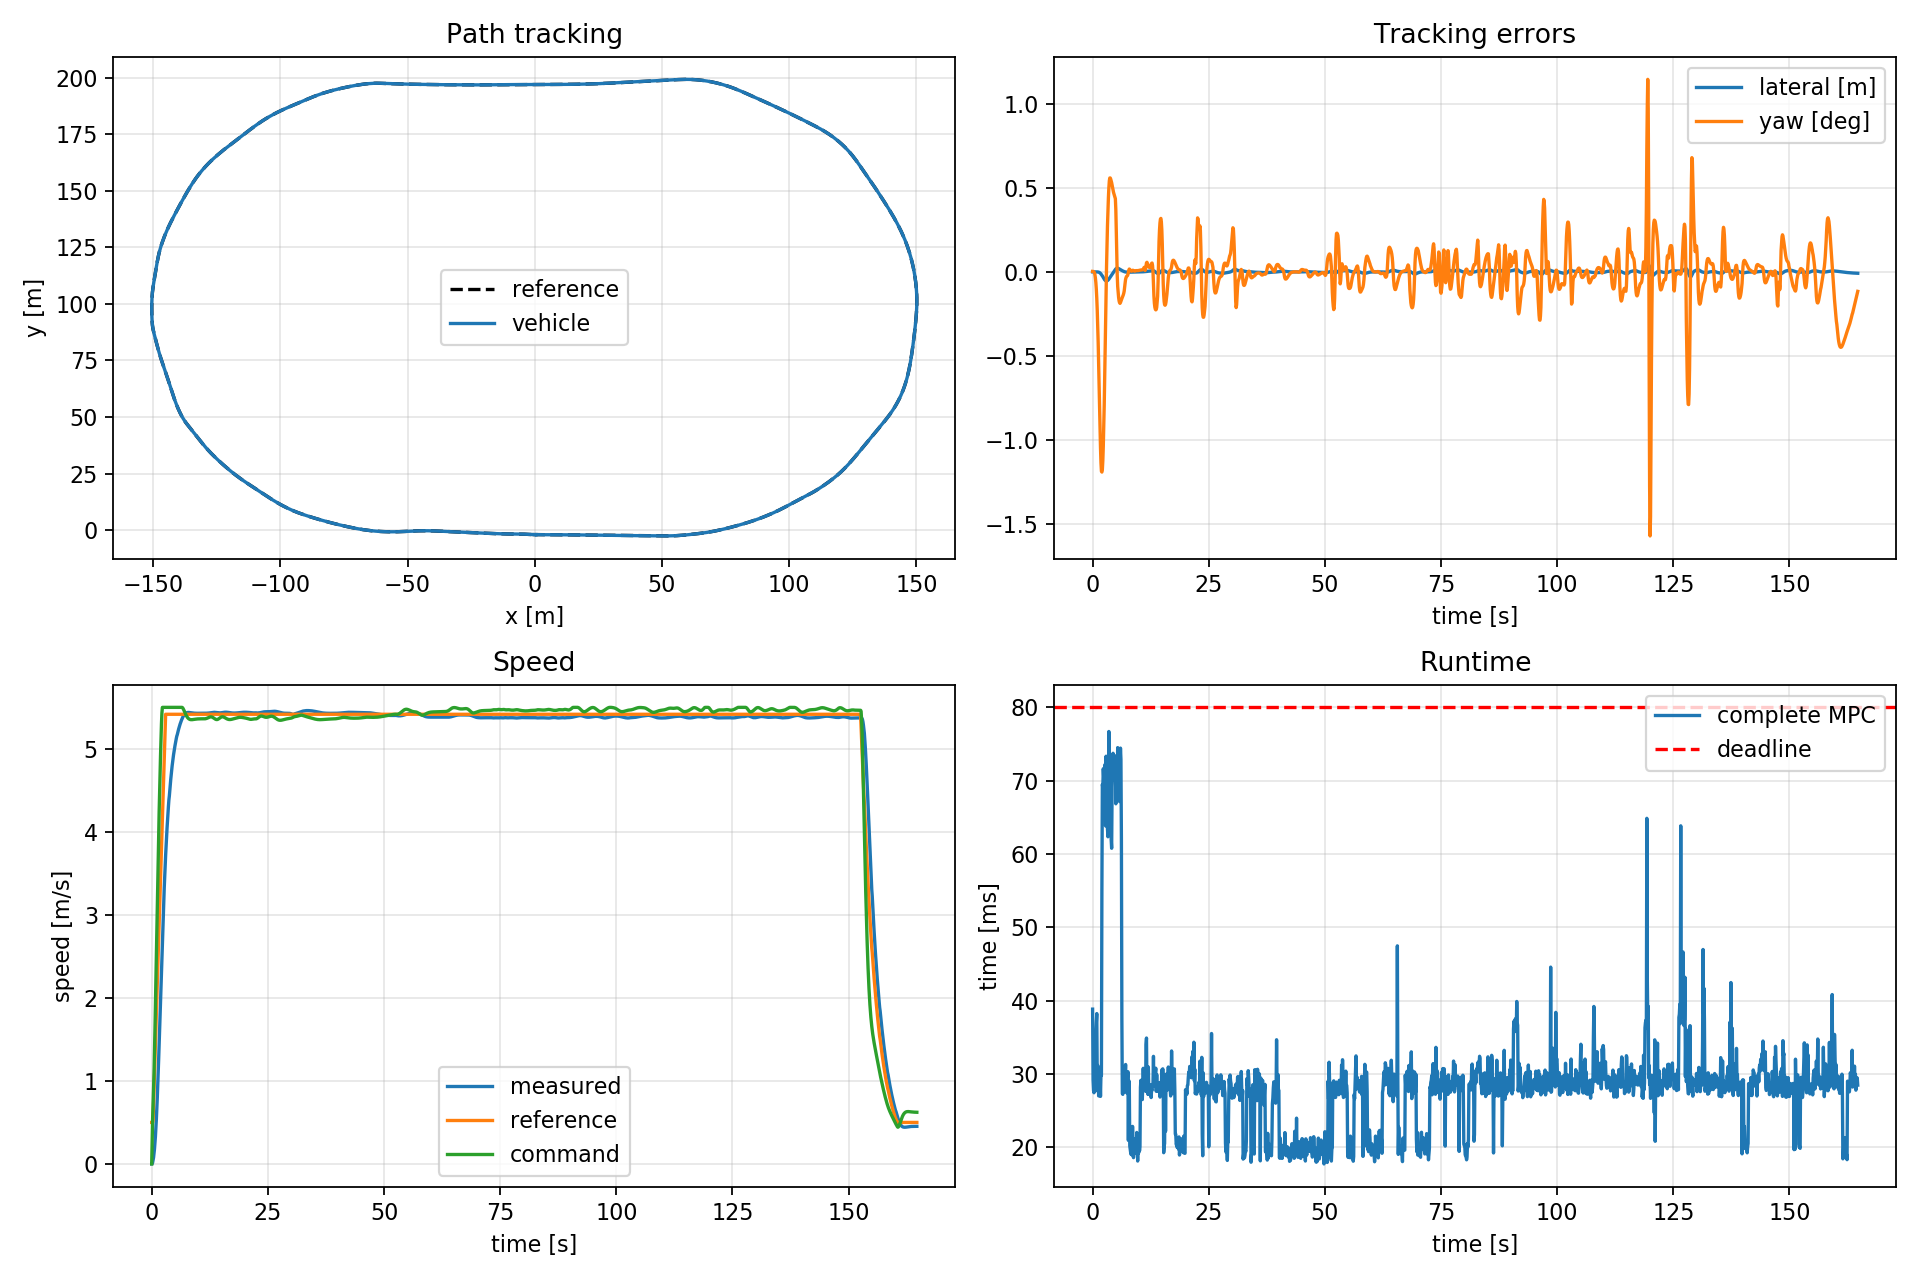
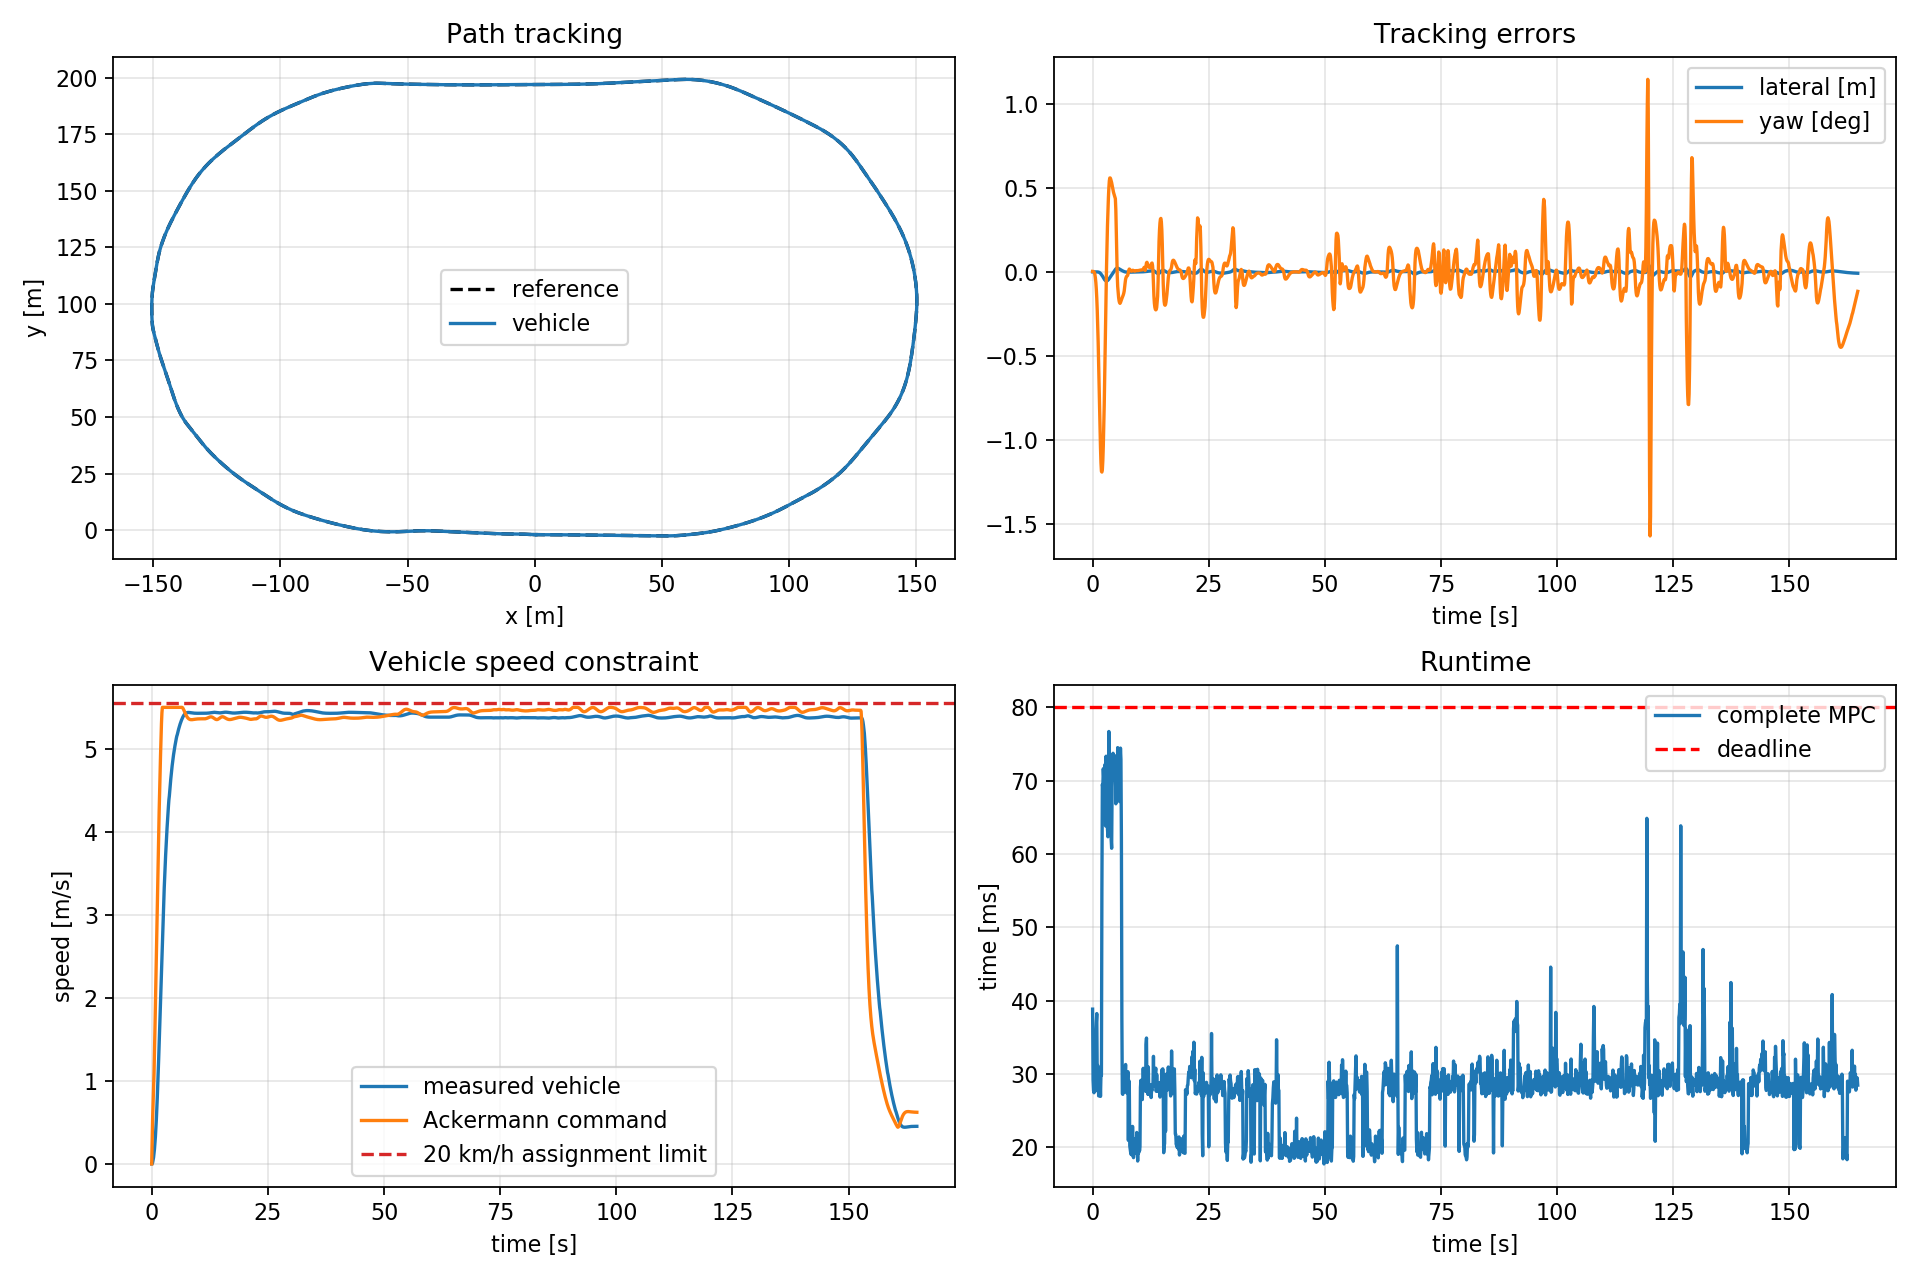
Audit assignment deliverables

Changed region(s): [[0.0625, 0.5, 0.4688, 0.7188], [0.1875, 0.8438, 0.375, 0.9062], [0.4375, 0.6875, 0.4688, 0.875]]

diff --git a/catkin_ws/src/gem_control/scripts/analyze_full_mpc_run.py b/catkin_ws/src/gem_control/scripts/analyze_full_mpc_run.py
@@ -56,6 +56,9 @@ def analyze(run_directory: Path) -> dict[str, object]:
     yaw_error = columns["yaw_error_rad"]
     total_compute = columns["mpc_total_compute_s"]
     publish_interval = np.diff(columns["publish_time_s"])
+    measured_speed = columns["speed_mps"]
+    speed_command = columns["published_speed_command_mps"]
+    assignment_speed_limit_mps = 20.0 / 3.6
     original_waypoints = load_waypoint_csv(preprocessing.source_csv)[
         preprocessing.first_lap_raw_index
         : preprocessing.last_lap_raw_index + 1
@@ -91,6 +94,17 @@ def analyze(run_directory: Path) -> dict[str, object]:
         "yaw_error": {
             "rms_rad": rms(yaw_error),
             "maximum_absolute_rad": float(np.max(np.abs(yaw_error))),
+        },
+        "speed": {
+            "assignment_limit_kmh": 20.0,
+            "maximum_measured_mps": float(np.max(measured_speed)),
+            "maximum_measured_kmh": float(3.6 * np.max(measured_speed)),
+            "maximum_command_mps": float(np.max(speed_command)),
+            "maximum_command_kmh": float(3.6 * np.max(speed_command)),
+            "assignment_limit_respected": bool(
+                np.max(measured_speed) <= assignment_speed_limit_mps
+                and np.max(speed_command) <= assignment_speed_limit_mps
+            ),
         },
         "timing": {
             "mean_total_compute_ms": float(1000.0 * np.mean(total_compute)),
@@ -139,20 +153,17 @@ def analyze(run_directory: Path) -> dict[str, object]:
     error_axis.legend()
     error_axis.grid(True, alpha=0.3)
 
-    speed_axis.plot(time_s, columns["speed_mps"], label="measured")
-    speed_axis.plot(
-        time_s,
-        columns["reference_speed_mps"],
-        label="reference",
-    )
-    speed_axis.plot(
-        time_s,
-        columns["published_speed_command_mps"],
-        label="command",
+    speed_axis.plot(time_s, measured_speed, label="measured vehicle")
+    speed_axis.plot(time_s, speed_command, label="Ackermann command")
+    speed_axis.axhline(
+        assignment_speed_limit_mps,
+        color="tab:red",
+        linestyle="--",
+        label="20 km/h assignment limit",
     )
     speed_axis.set_xlabel("time [s]")
     speed_axis.set_ylabel("speed [m/s]")
-    speed_axis.set_title("Speed")
+    speed_axis.set_title("Vehicle speed constraint")
     speed_axis.legend()
     speed_axis.grid(True, alpha=0.3)
 

diff --git a/README.md b/README.md
@@ -3,6 +3,25 @@
 System identification and model predictive path tracking for the
 POLARIS GEM e2 simulator.
 
+## Assignment Coverage
+
+| Assignment requirement | Implementation and evidence |
+| --- | --- |
+| Simulator data for system identification | Reproducible commissioned train, validation, and held-out test profiles in `gem_sysid` |
+| Ackermann command and current state to future state model | Separate learned speed and yaw-rate residual MLPs plus midpoint Euler pose propagation |
+| Model validation inputs, outputs, and RMSE | Selected-model metric table and `selected_model_test_evidence.png` below |
+| MPC using the learned dynamics model | Direct-command nonlinear MPC in `gem_control` |
+| CSV path execution | Simulator `package://gem_pure_pursuit_sim/waypoints/wps.csv`, converted to a closed arc-length path |
+| Maximum speed `20 km/h` | Final lap: `19.660 km/h` maximum measured, `19.800 km/h` maximum command |
+| Cross-track error within `1 m` | Final lap: `0.0543 m` maximum absolute smoothed-path error |
+| Dockerfile and build/run instructions | Included below |
+| Saved system-identification and cross-track images | Included and embedded below |
+| Demonstration video | Not yet recorded; required recording contents are listed below |
+
+The cascaded-P controller and initial-error recovery test are additional
+validation work. They are documented after the required learned-model MPC but
+are not assignment requirements.
+
 ## Development Environment
 
 The project is developed on Windows using Docker Desktop with the WSL2
@@ -10,6 +29,20 @@ backend. ROS Noetic, Gazebo 11, and the project dependencies will run
 inside an Ubuntu 20.04 Docker container.
 
 ## Run the Environment
+
+Clone the repository together with its simulator submodule:
+
+```bash
+git clone --recurse-submodules \
+  https://github.com/plenarbence/gem-mpc-path-tracking.git
+cd gem-mpc-path-tracking
+```
+
+For an existing clone, initialize the simulator with:
+
+```bash
+git submodule update --init --recursive
+```
 
 Build the image:
 
@@ -172,12 +205,13 @@ Build and validate the closed, arc-length-parameterized path:
 rosrun gem_control validate_reference_path.py
 ```
 
-The `gem_control` package resolves the simulator waypoint CSV through ROS,
-removes the stationary prefix and duplicates, extracts one lap, closes its
-endpoint, and fits the validated periodic smoothing spline. It provides both a
-numerical Python path for vehicle projection and a differentiable CasADi path
-for MPC. Validation evidence is written to `results/reference_path/`; the
-method and interface are documented in
+The `gem_control` package resolves
+`package://gem_pure_pursuit_sim/waypoints/wps.csv` through ROS, removes the
+stationary prefix and duplicates, extracts one lap, closes its endpoint, and
+fits the validated periodic smoothing spline. It provides both a numerical
+Python path for vehicle projection and a differentiable CasADi path for MPC.
+Validation evidence is written to `results/reference_path/`; the method and
+interface are documented in
 [`docs/reference_path.md`](docs/reference_path.md).
 
 ## Full Learned MPC
@@ -223,8 +257,10 @@ The final horizon-12 lap used a `19.5 km/h` requested path progression and
 travelled `831.68 m` with `0.00776 m` lateral RMS error and `0.05426 m`
 maximum error. All 1,648 solves were accepted; complete MPC computation was
 `36.63 ms` p95 and `76.71 ms` maximum with no `80 ms` deadline miss. Horizon
-10 was therefore not required. Implementation details, limits, warm starts,
-deadline handling, and evidence are documented in
+10 was therefore not required. Maximum measured vehicle speed was
+`19.660 km/h`, and maximum Ackermann speed command was `19.800 km/h`, so the
+assignment's `20 km/h` limit was respected. Implementation details, limits,
+warm starts, deadline handling, and evidence are documented in
 [`docs/full_learned_mpc.md`](docs/full_learned_mpc.md).
 
 The third panel reports unsigned vehicle distance to the nearest original CSV
@@ -255,7 +291,7 @@ Implementation, timing, and validation details are in
 
 ![Cascaded-P validation](results/cascaded_p/simulator_19p5_kmh/validation.png)
 
-## Initial-Error Stress Test
+## Extra Validation: Initial-Error Stress Test
 
 The full learned MPC and cascaded P were also run from the same `0.5 m`
 lateral and `+40 deg` yaw error at a `10 km/h` reference path progression for
@@ -273,6 +309,17 @@ Commands, exact metrics, and interpretation are documented in
 [`docs/initial_error_recovery.md`](docs/initial_error_recovery.md).
 
 ![Initial-error comparison](results/initial_error_0p5m_40deg_10kmh/comparison.png)
+
+## Demonstration Video
+
+The demonstration video is the only assignment deliverable not yet completed.
+The final recording must:
+
+1. Start `full_mpc_sim.launch` from a terminal.
+2. Show the vehicle completing the path in Gazebo.
+3. Show RViz displaying the CSV path and vehicle progress.
+4. End on the selected-model input/output RMSE image.
+5. End on the final cross-track-error image.
 
 ## Status
 

diff --git a/docs/full_learned_mpc.md b/docs/full_learned_mpc.md
@@ -170,5 +170,7 @@ and then holds zero until stationary. The recorded final lap covered
 `28.49 ms` mean, `36.63 ms` p95, and `76.71 ms` maximum, with zero `80 ms`
 deadline misses. All solves were accepted, so the horizon-10 fallback was not
 required and horizon 12 remains selected. Commissioned takeover delay was
-`4.50 ms`; the vehicle stopped stationary in `1.60 s`. Evidence is stored in
-`results/mpc/simulator_h12_19p5_kmh/`.
+`4.50 ms`; maximum measured vehicle speed was `19.660 km/h`, and maximum
+Ackermann speed command was `19.800 km/h`, satisfying the assignment's
+`20 km/h` limit. The vehicle stopped stationary in `1.60 s`. Evidence is
+stored in `results/mpc/simulator_h12_19p5_kmh/`.
